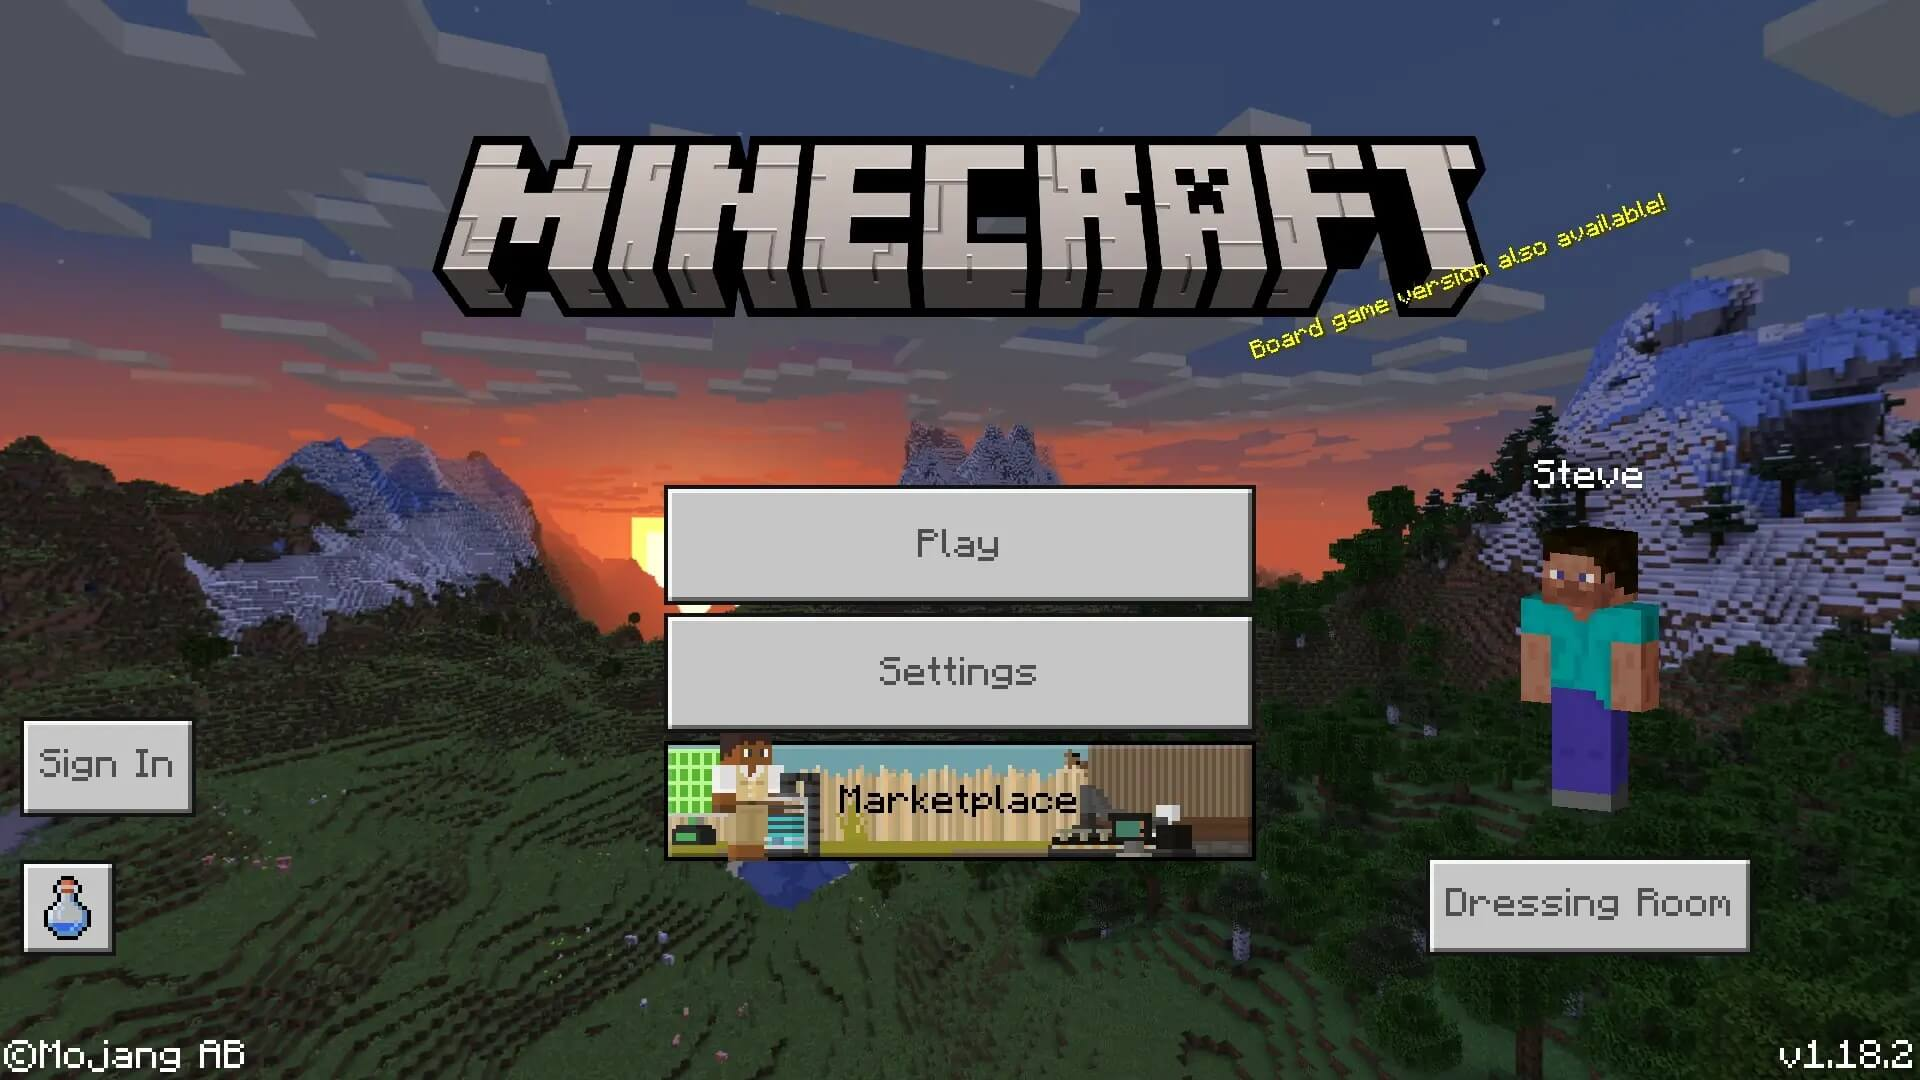
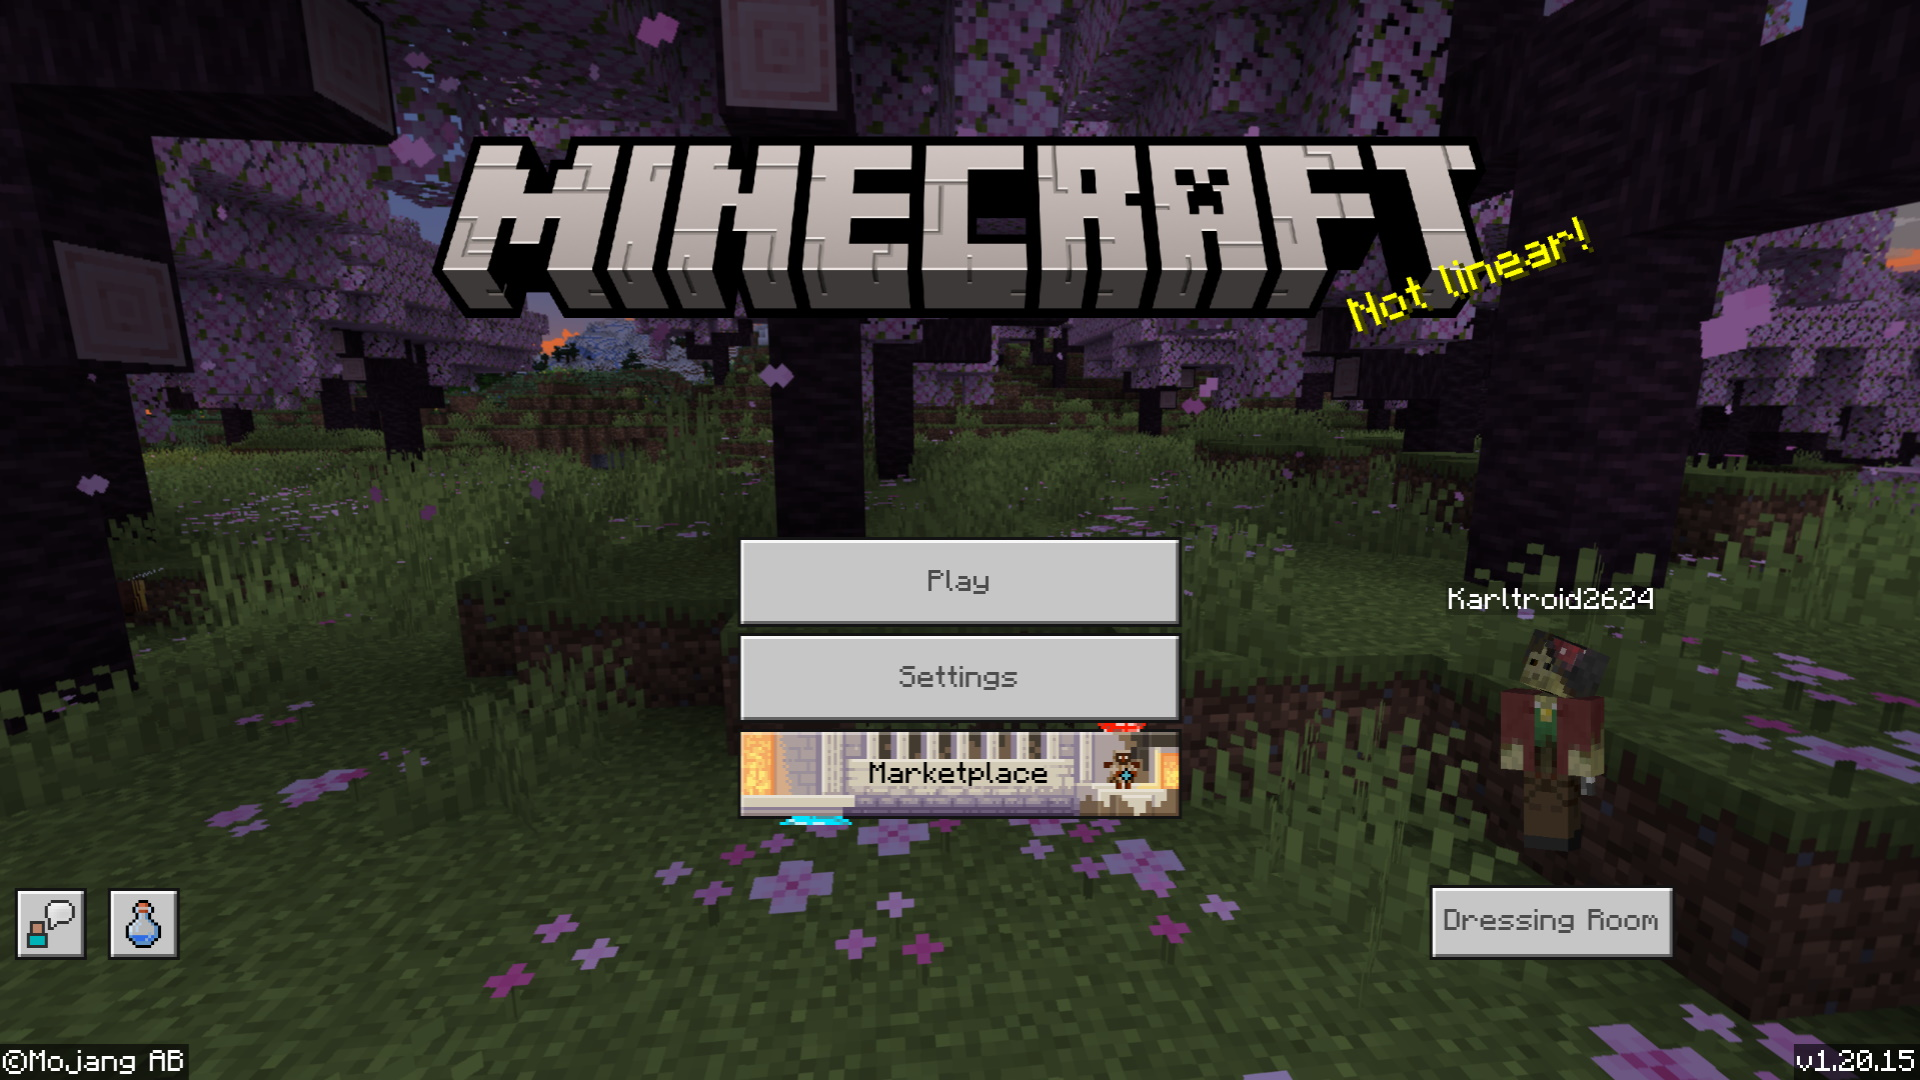
updated screenshots to 1.20 and made IP more clear

diff --git a/minecraft/index.html b/minecraft/index.html
@@ -62,7 +62,7 @@
 			</div></a>
 
 			<a href="join"><div id="join-server" class="card card-small">
-				<h1>Join Today!<img class="newtab-icon" src="../images/icons/general/newtab.png" /><aside>Java & Bedrock Compatible!</aside></h1>
+				<h1>mc.smulbeana.net<img class="newtab-icon" src="../images/icons/general/newtab.png" /><aside>Java & Bedrock 1.20+ Compatible!</aside></h1>
 			</div></a>
 
 			<a href="https://map.smulbeana.net" target="_blank"><div id="server-map" class="card card-large">
